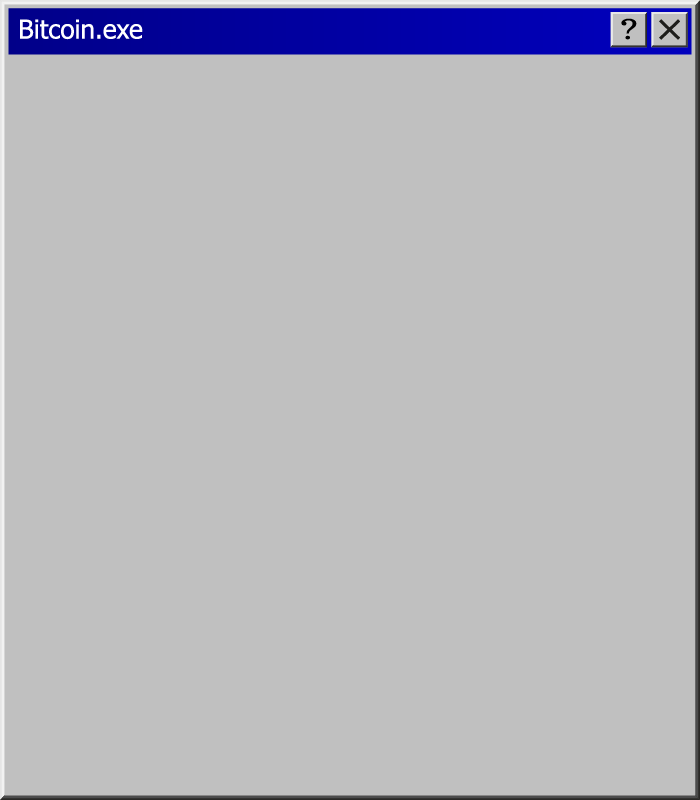
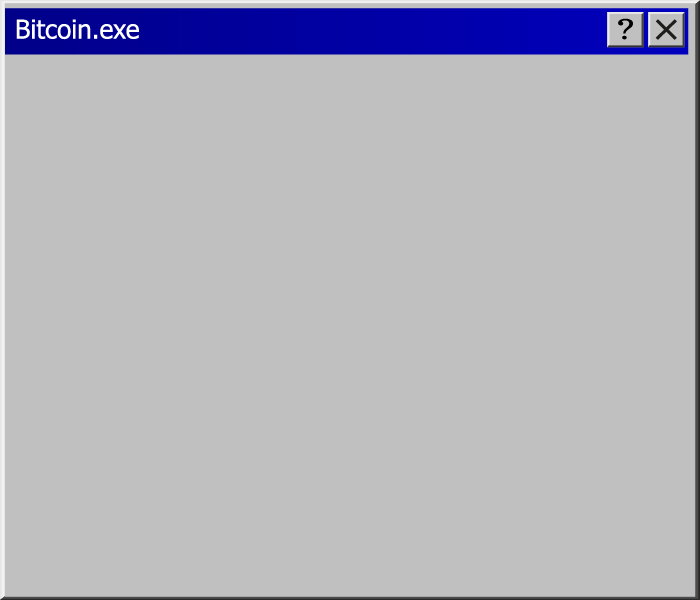
Update scaling logic for responsive design and replace PercentCalculator with getResponsiveSize

Changed region(s): [[0.0, 0.0, 0.99, 0.09]]

diff --git a/src/game/scenes/f_update.js b/src/game/scenes/f_update.js
@@ -1,13 +1,15 @@
-export function PercentCalculator(a,p,b,r){
-    let Percent = a*p/b;
-    if(r){
-        return(updateSize(a,Percent));
-    }else{
-        return(Percent);
-    }
+export function ScaleFaktor(designSize, screenSize) {
+    return screenSize / designSize; // gibt den Scale-Faktor zurück
 }
 
-export function updateSize(a,p){
-    let newSize = a/((p/1000)+1);
-    return(newSize)
+export function getResponsiveSize(designW, designH, screenW, screenH) {
+    const scaleX = ScaleFaktor(designW, screenW);
+    const scaleY = ScaleFaktor(designH, screenH);
+    const scale  = Math.min(scaleX, scaleY); // proportional bleiben
+
+    return {
+        width:  designW * scale,
+        height: designH * scale,
+        scale:  scale,
+    };
 }

diff --git a/src/game/scenes/MainGame.js b/src/game/scenes/MainGame.js
@@ -1,6 +1,6 @@
 import { Scene } from 'phaser';
 import { addToScore, GPUPrices, GPUScore } from './f_addScore';
-import { PercentCalculator } from './f_update';
+import { ScaleFaktor, getResponsiveSize } from './f_update';
 
 export default class MainGame extends Scene {
 
@@ -219,7 +219,7 @@ export default class MainGame extends Scene {
             });
 
             this.C_BitcoinEXE.setInteractive({
-                hitArea:{}, //new Phaser.Geom.Rectangle(-350, -400, 610, 50),
+                hitArea:{},
                 hitAreaCallback: (area, x, y,) => {
                     if(Phaser.Geom.Rectangle.Contains(new Phaser.Geom.Rectangle(-350,-400,610,50),x,y)){
                         this.activeZone = "drag";
@@ -494,7 +494,17 @@ export default class MainGame extends Scene {
 
     update(){
         this.background = this.background.setDisplaySize(window.innerWidth,window.innerHeight);
+        if(this.C_BitcoinEXE != null){
+            let sizeB = getResponsiveSize(this.BitCoinEXEBackground.width,this.BitCoinEXEBackground.height,window.innerWidth,window.innerHeight);
+            //this.BitCoinEXEBackground = this.BitCoinEXEBackground.setDisplaySize(sizeB.width,sizeB.height);
+            this.BitCoinEXEBackground.setScale(sizeB.scale);
+            
+            let sizeC = getResponsiveSize(this.coin.width,this.coin.height,window.innerWidth,window.innerHeight);
+            //this.coin = this.coin.setDisplaySize(sizeC.width,sizeC.height);
+            this.coin.setScale(sizeC.scale);
 
+            this.scoreboard.setFontSize(64*sizeC.scale);
+        }
 
     }
 